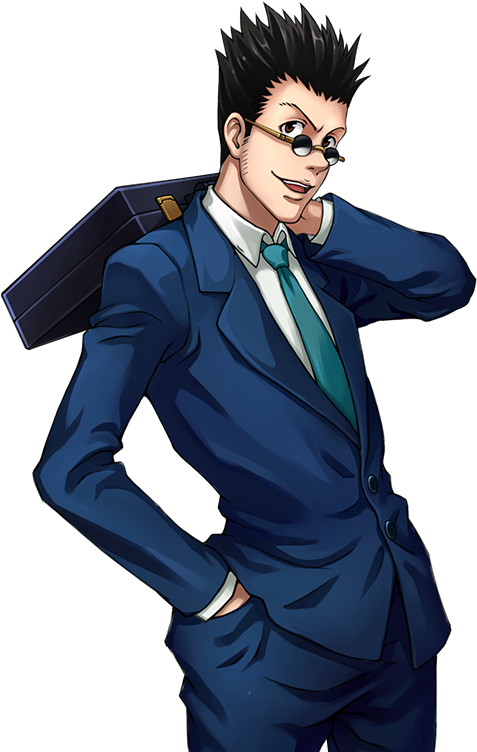
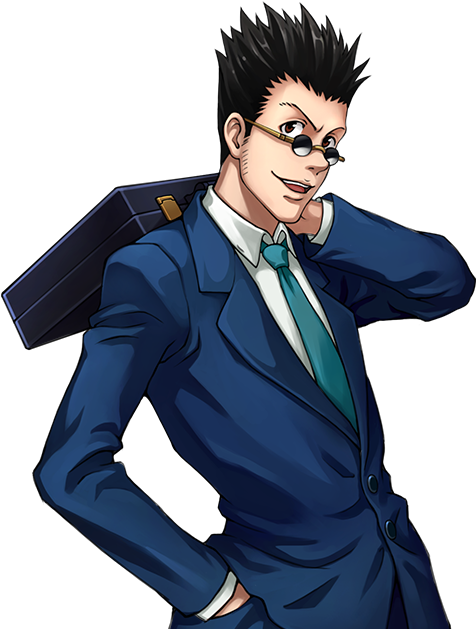
responsivo-ajuste da imagem

diff --git a/src/css/style.css b/src/css/style.css
@@ -35,7 +35,7 @@ body{
 }
 .lista-personagens{
     width: 510px;
-    height: 1050px;
+    height: 850px;
     position: relative;
 }
 .btn-seta{
